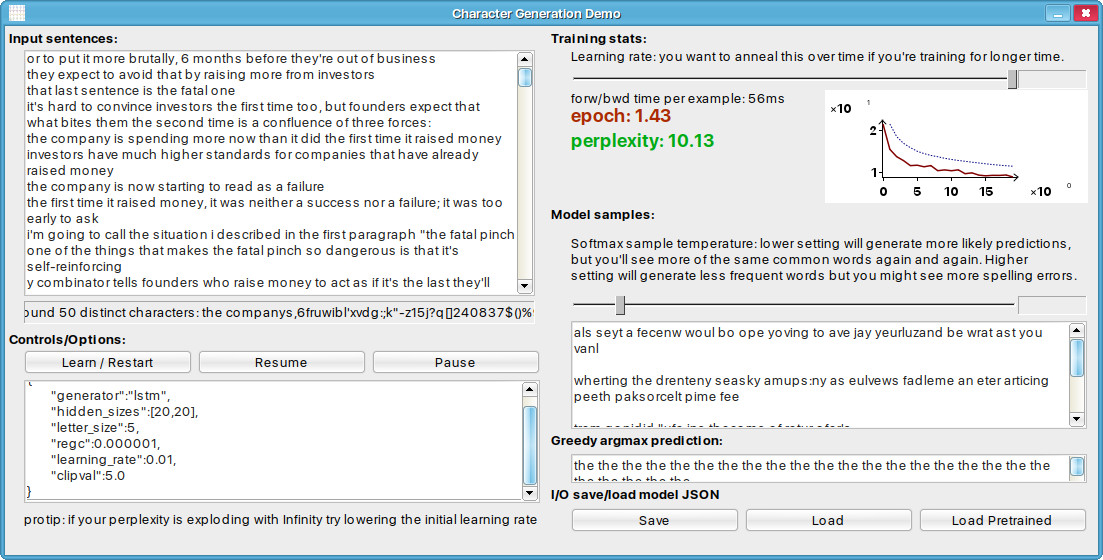
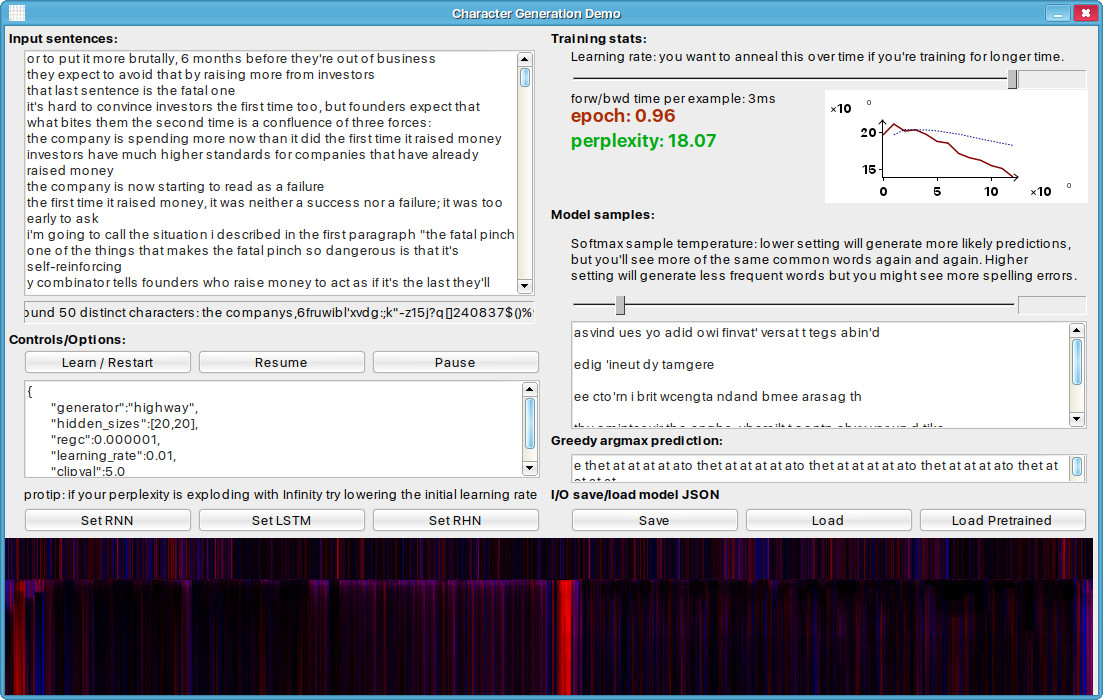
Added new HeatmapTimeView drawer to many examples.

diff --git a/src/ConvNetCtrl/HeatmapTimeView.cpp b/src/ConvNetCtrl/HeatmapTimeView.cpp
@@ -13,6 +13,8 @@ void HeatmapTimeView::Paint(Draw& d) {
 		PaintSession(d);
 	else if (mode == MODE_GRAPH)
 		PaintGraph(d);
+	else if (mode == MODE_RECURRENTSESSION)
+		PaintRecurrentSession(d);
 	else
 		d.DrawRect(GetSize(), White());
 }
@@ -58,13 +60,13 @@ void HeatmapTimeView::PaintSession(Draw& d) {
 				it->r = 0;
 				it->g = 0;
 				it->b = b;
-				it->a = 0;
+				it->a = 255;
 			}
 			else {
 				it->r = b;
 				it->g = 0;
 				it->b = 0;
-				it->a = 0;
+				it->a = 255;
 			}
 			it++;
 		}
@@ -76,6 +78,7 @@ void HeatmapTimeView::PaintSession(Draw& d) {
 	
 	
 	ImageDraw id(sz);
+	id.DrawRect(sz, Black());
 	for(int i = 0; i < lines.GetCount(); i++) {
 		Image& ib = lines[i];
 		id.DrawImage(0, i, sz.cx, 1, ib);
@@ -122,13 +125,13 @@ void HeatmapTimeView::PaintGraph(Draw& d) {
 				it->r = 0;
 				it->g = 0;
 				it->b = b;
-				it->a = 0;
+				it->a = 255;
 			}
 			else {
 				it->r = b;
 				it->g = 0;
 				it->b = 0;
-				it->a = 0;
+				it->a = 255;
 			}
 			it++;
 		}
@@ -139,6 +142,7 @@ void HeatmapTimeView::PaintGraph(Draw& d) {
 	
 	
 	ImageDraw id(sz);
+	id.DrawRect(sz, Black());
 	for(int i = 0; i < lines.GetCount(); i++) {
 		Image& ib = lines[i];
 		id.DrawImage(0, i, sz.cx, 1, ib);
@@ -148,5 +152,69 @@ void HeatmapTimeView::PaintGraph(Draw& d) {
 	d.DrawImage(0, 0, id);
 }
 
+void HeatmapTimeView::PaintRecurrentSession(Draw& d) {
+	Size sz = GetSize();
+	
+	int layer_count = rses->GetMatCount();
+	int total_output = 0;
+	
+	for(int i = 0; i < layer_count; i++) {
+		Mat& lb = rses->GetMat(i);
+		total_output += lb.GetLength();
+	}
+	
+	ImageBuffer ib(total_output, 1);
+	RGBA* it = ib.Begin();
+	
+	
+	for(int i = 0; i < layer_count; i++) {
+		
+		Mat& lb = rses->GetMat(i);
+		int output_count = lb.GetLength();
+		
+		double max = 0.0;
+		
+		tmp.SetCount(output_count);
+		
+		for(int j = 0; j < output_count; j++) {
+			double d = lb.Get(j);
+			tmp[j] = d;
+			double fd = fabs(d);
+			if (fd > max) max = fd;
+		}
+		
+		for(int j = 0; j < output_count; j++) {
+			double d = tmp[j];
+			byte b = fabs(d) / max * 255;
+			if (d >= 0)	{
+				it->r = 0;
+				it->g = 0;
+				it->b = b;
+				it->a = 255;
+			}
+			else {
+				it->r = b;
+				it->g = 0;
+				it->b = 0;
+				it->a = 255;
+			}
+			it++;
+		}
+	}
+	
+	lines.Add(ib);
+	while (lines.GetCount() > sz.cy) lines.Remove(0);
+	
+	
+	ImageDraw id(sz);
+	id.DrawRect(sz, Black());
+	for(int i = 0; i < lines.GetCount(); i++) {
+		Image& ib = lines[i];
+		id.DrawImage(0, i, sz.cx, 1, ib);
+	}
+	
+	
+	d.DrawImage(0, 0, id);
+}
 
 }

diff --git a/examples/CharGen/CharGen.cpp b/examples/CharGen/CharGen.cpp
@@ -35,7 +35,9 @@ CharGen::CharGen() {
 	
 	CtrlLayout(*this);
 	
-	Size sz = Zsz(880, 430);
+	network_view.SetRecurrentSession(ses);
+	
+	Size sz = Zsz(880, 544);
 	SetRect(0,0,sz.cx,sz.cy);
 	
 	tick_iter = 0;
@@ -48,10 +50,16 @@ CharGen::CharGen() {
 	PostCallback(THISBACK1(SetPreset, 1));
 	PostCallback(THISBACK(Reload));
 	PostCallback(THISBACK(Start));
+	
+	SetTimeCallback(-40, THISBACK(Refresher));
 }
 
 CharGen::~CharGen() {
 	Stop();
+}
+
+void CharGen::Refresher() {
+	network_view.Refresh();
 }
 
 void CharGen::SetPreset(int i) {
@@ -65,7 +73,7 @@ void CharGen::SetPreset(int i) {
 			
 			// optimization
 			"\t\"regc\":0.000001,\n" // L2 regularization strength
-			"\t\"learning_rate\":0.001,\n" // learning rate
+			"\t\"learning_rate\":0.01,\n" // learning rate
 			"\t\"clipval\":5.0\n" // clip gradients at this value
 			"}";
 	}
@@ -79,7 +87,7 @@ void CharGen::SetPreset(int i) {
 			
 			// optimization
 			"\t\"regc\":0.000001,\n" // L2 regularization strength
-			"\t\"learning_rate\":0.001,\n" // learning rate
+			"\t\"learning_rate\":0.01,\n" // learning rate
 			"\t\"clipval\":5.0\n" // clip gradients at this value
 			"}";
 	}
@@ -92,7 +100,7 @@ void CharGen::SetPreset(int i) {
 			
 			// optimization
 			"\t\"regc\":0.000001,\n" // L2 regularization strength
-			"\t\"learning_rate\":0.001,\n" // learning rate
+			"\t\"learning_rate\":0.01,\n" // learning rate
 			"\t\"clipval\":5.0\n" // clip gradients at this value
 			"}";
 	}

diff --git a/examples/RegressionPainter/RegressionPainter.cpp b/examples/RegressionPainter/RegressionPainter.cpp
@@ -49,7 +49,9 @@ RegressionPainter::RegressionPainter() {
 	slider.SetData(1000);
 	slider <<= THISBACK(RefreshLearningRate);
 	
-	ses.WhenStepInterval << THISBACK(StepInterval);
+	network_view.SetSession(ses);
+	
+	//ses.WhenStepInterval << THISBACK(StepInterval);
 	
 	PostCallback(THISBACK(SetImage));
 	
@@ -61,6 +63,7 @@ void RegressionPainter::DockInit() {
 	DockLeft(Dockable(img_list, "Image List").SizeHint(Size(128, 320)));
 	DockBottom(Dockable(status, "Status").SizeHint(Size(320, 200)));
 	DockBottom(Dockable(slider_ctrl, "Learning rate").SizeHint(Size(320, 200)));
+	DockRight(Dockable(network_view, "Network View").SizeHint(Size(320, 480)));
 }
 
 void RegressionPainter::RefreshStatus() {
@@ -80,6 +83,7 @@ void RegressionPainter::RefreshLearningRate() {
 
 void RegressionPainter::Refresher() {
 	RefreshStatus();
+	network_view.Refresh();
 }
 
 void RegressionPainter::Reload() {

diff --git a/src/ConvNetCtrl/HeatmapTimeView.h b/src/ConvNetCtrl/HeatmapTimeView.h
@@ -11,11 +11,12 @@ using namespace ConvNet;
 class HeatmapTimeView : public Ctrl {
 	Session* ses;
 	Graph* graph;
+	RecurrentSession* rses;
 	Array<Image> lines;
 	Vector<double> tmp;
 	int mode;
 	
-	enum {MODE_SESSION, MODE_GRAPH};
+	enum {MODE_SESSION, MODE_GRAPH, MODE_RECURRENTSESSION};
 	
 public:
 	typedef HeatmapTimeView CLASSNAME;
@@ -24,9 +25,11 @@ public:
 	virtual void Paint(Draw& d);
 	void PaintSession(Draw& d);
 	void PaintGraph(Draw& d);
+	void PaintRecurrentSession(Draw& d);
 	
 	void SetSession(Session& ses) {this->ses = &ses; mode = MODE_SESSION;}
 	void SetGraph(Graph& g) {this->graph = &g; mode = MODE_GRAPH;}
+	void SetRecurrentSession(RecurrentSession& rses) {this->rses = &rses; mode = MODE_RECURRENTSESSION;}
 	
 };
 

diff --git a/examples/Regression1D/Regression1D.cpp b/examples/Regression1D/Regression1D.cpp
@@ -42,22 +42,26 @@ Regression1D::Regression1D() {
 	regen <<= THISBACK(Regenerate);
 	funcs <<= THISBACK(Regenerate);
 	
-	pointcount.SetData(10);
+	pointcount.SetData(100);
 	
 	layer_ctrl.SetSession(ses);
 	
 	Regenerate();
 	Reload();
 	
+	network_view.SetSession(ses);
+	
 	SetTimeCallback(-40, THISBACK(Refresher));
 }
 
 void Regression1D::DockInit() {
 	AutoHide(DOCK_LEFT, Dockable(net_ctrl, "Edit Network").SizeHint(Size(640, 320)));
+	DockRight(Dockable(network_view, "Network View").SizeHint(Size(320, 480)));
 }
 
 void Regression1D::Refresher() {
 	layer_ctrl.Refresh();
+	network_view.Refresh();
 }
 
 void Regression1D::Reload() {

diff --git a/src/ConvNet/RecurrentSession.h b/src/ConvNet/RecurrentSession.h
@@ -62,8 +62,6 @@ protected:
 	void Backward(int seq_end_cursor);
 	void SolverStep();
 	void ResetPrevs();
-	int GetMatCount();
-	Mat& GetMat(int i);
 public:
 	typedef RecurrentSession CLASSNAME;
 	RecurrentSession();
@@ -79,6 +77,8 @@ public:
 	double GetPerplexity() const {return ppl;}
 	double GetCost() const {return cost;}
 	double GetLearningRate() const {return learning_rate;}
+	int GetMatCount();
+	Mat& GetMat(int i);
 	
 	void SetInputSize(int i) {input_size = i;}
 	void SetOutputSize(int i) {output_size = i;}

diff --git a/examples/CharGen/CharGen.h b/examples/CharGen/CharGen.h
@@ -66,6 +66,7 @@ public:
 	void StoreJSON(String& json);
 	void Pause();
 	void Resume();
+	void Refresher();
 	void InitVocab(Vector<WString>& sents, int count_threshold);
 	WString PredictSentence(bool samplei=false, double temperature=1.0);
 	double Median(Vector<double>& values);

diff --git a/examples/RegressionPainter/RegressionPainter.h b/examples/RegressionPainter/RegressionPainter.h
@@ -54,6 +54,7 @@ class RegressionPainter : public DockWindow {
 	
 	ArrayCtrl img_list;
 	ConvNet::ImageRegression img_ctrl;
+	HeatmapTimeView network_view;
 	
 	Button reload_btn;
 	ParentCtrl net_ctrl;

diff --git a/examples/Regression1D/Regression1D.h b/examples/Regression1D/Regression1D.h
@@ -14,6 +14,7 @@ using namespace ConvNet;
 
 class Regression1D : public DockWindow {
 	
+	HeatmapTimeView network_view;
 	Button reload_btn;
 	ParentCtrl net_ctrl;
 	DocEdit net_edit;
